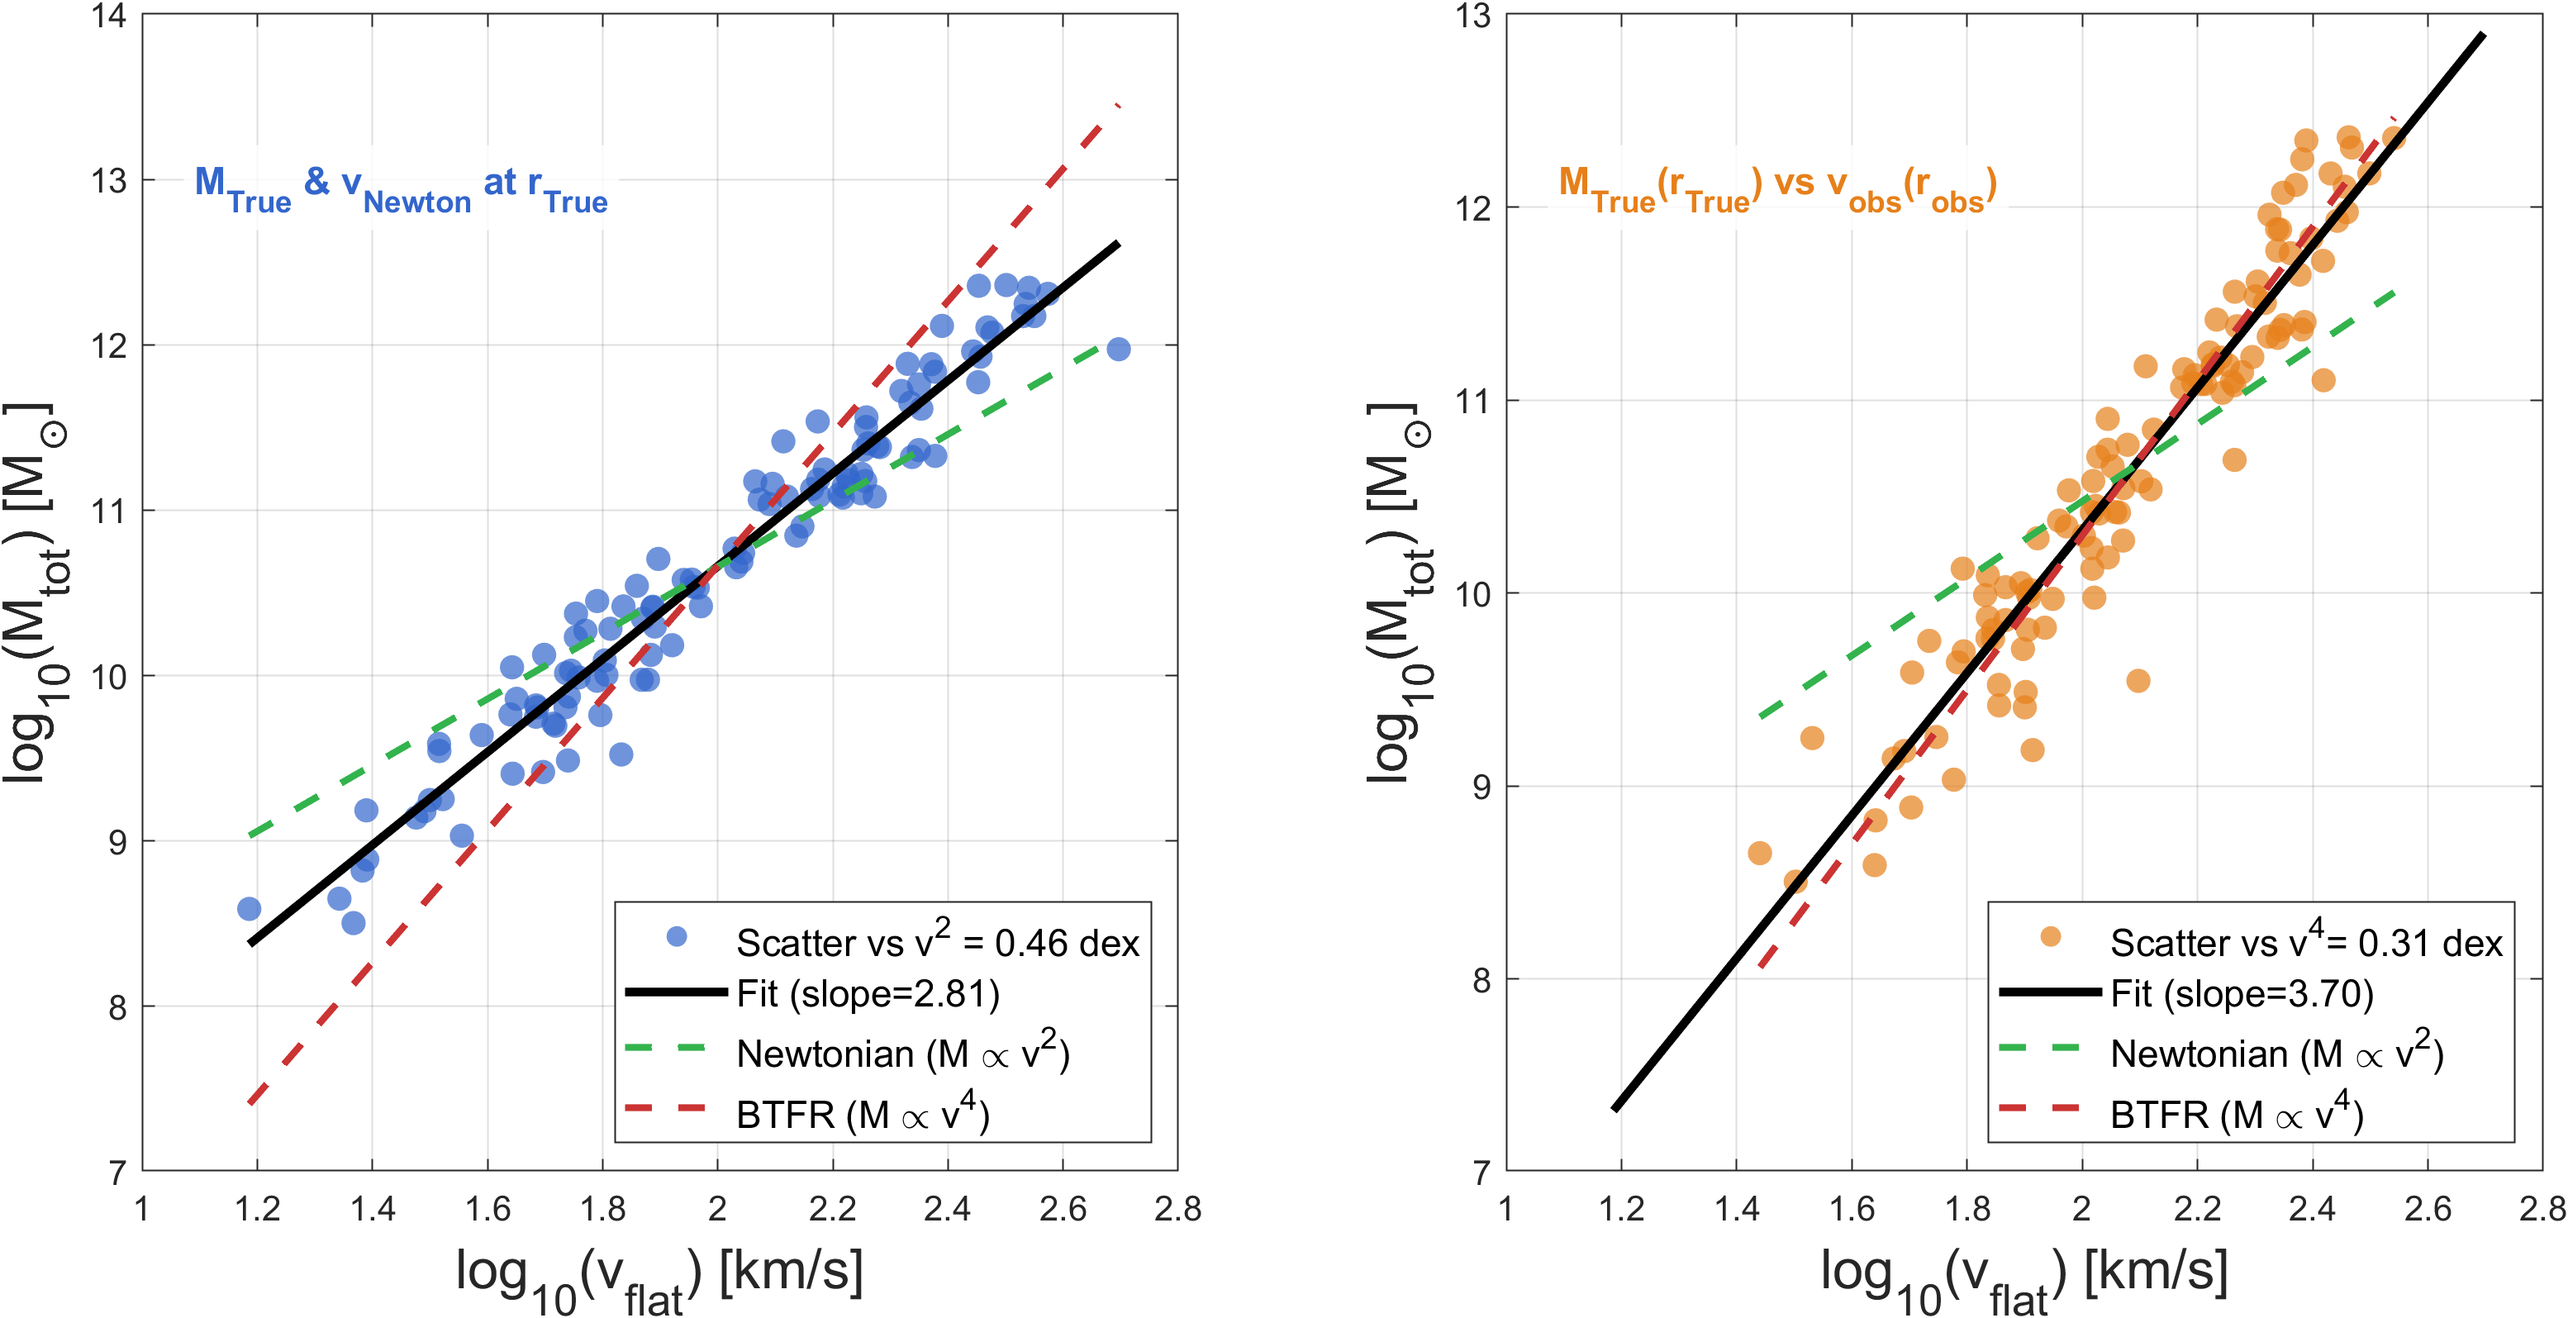
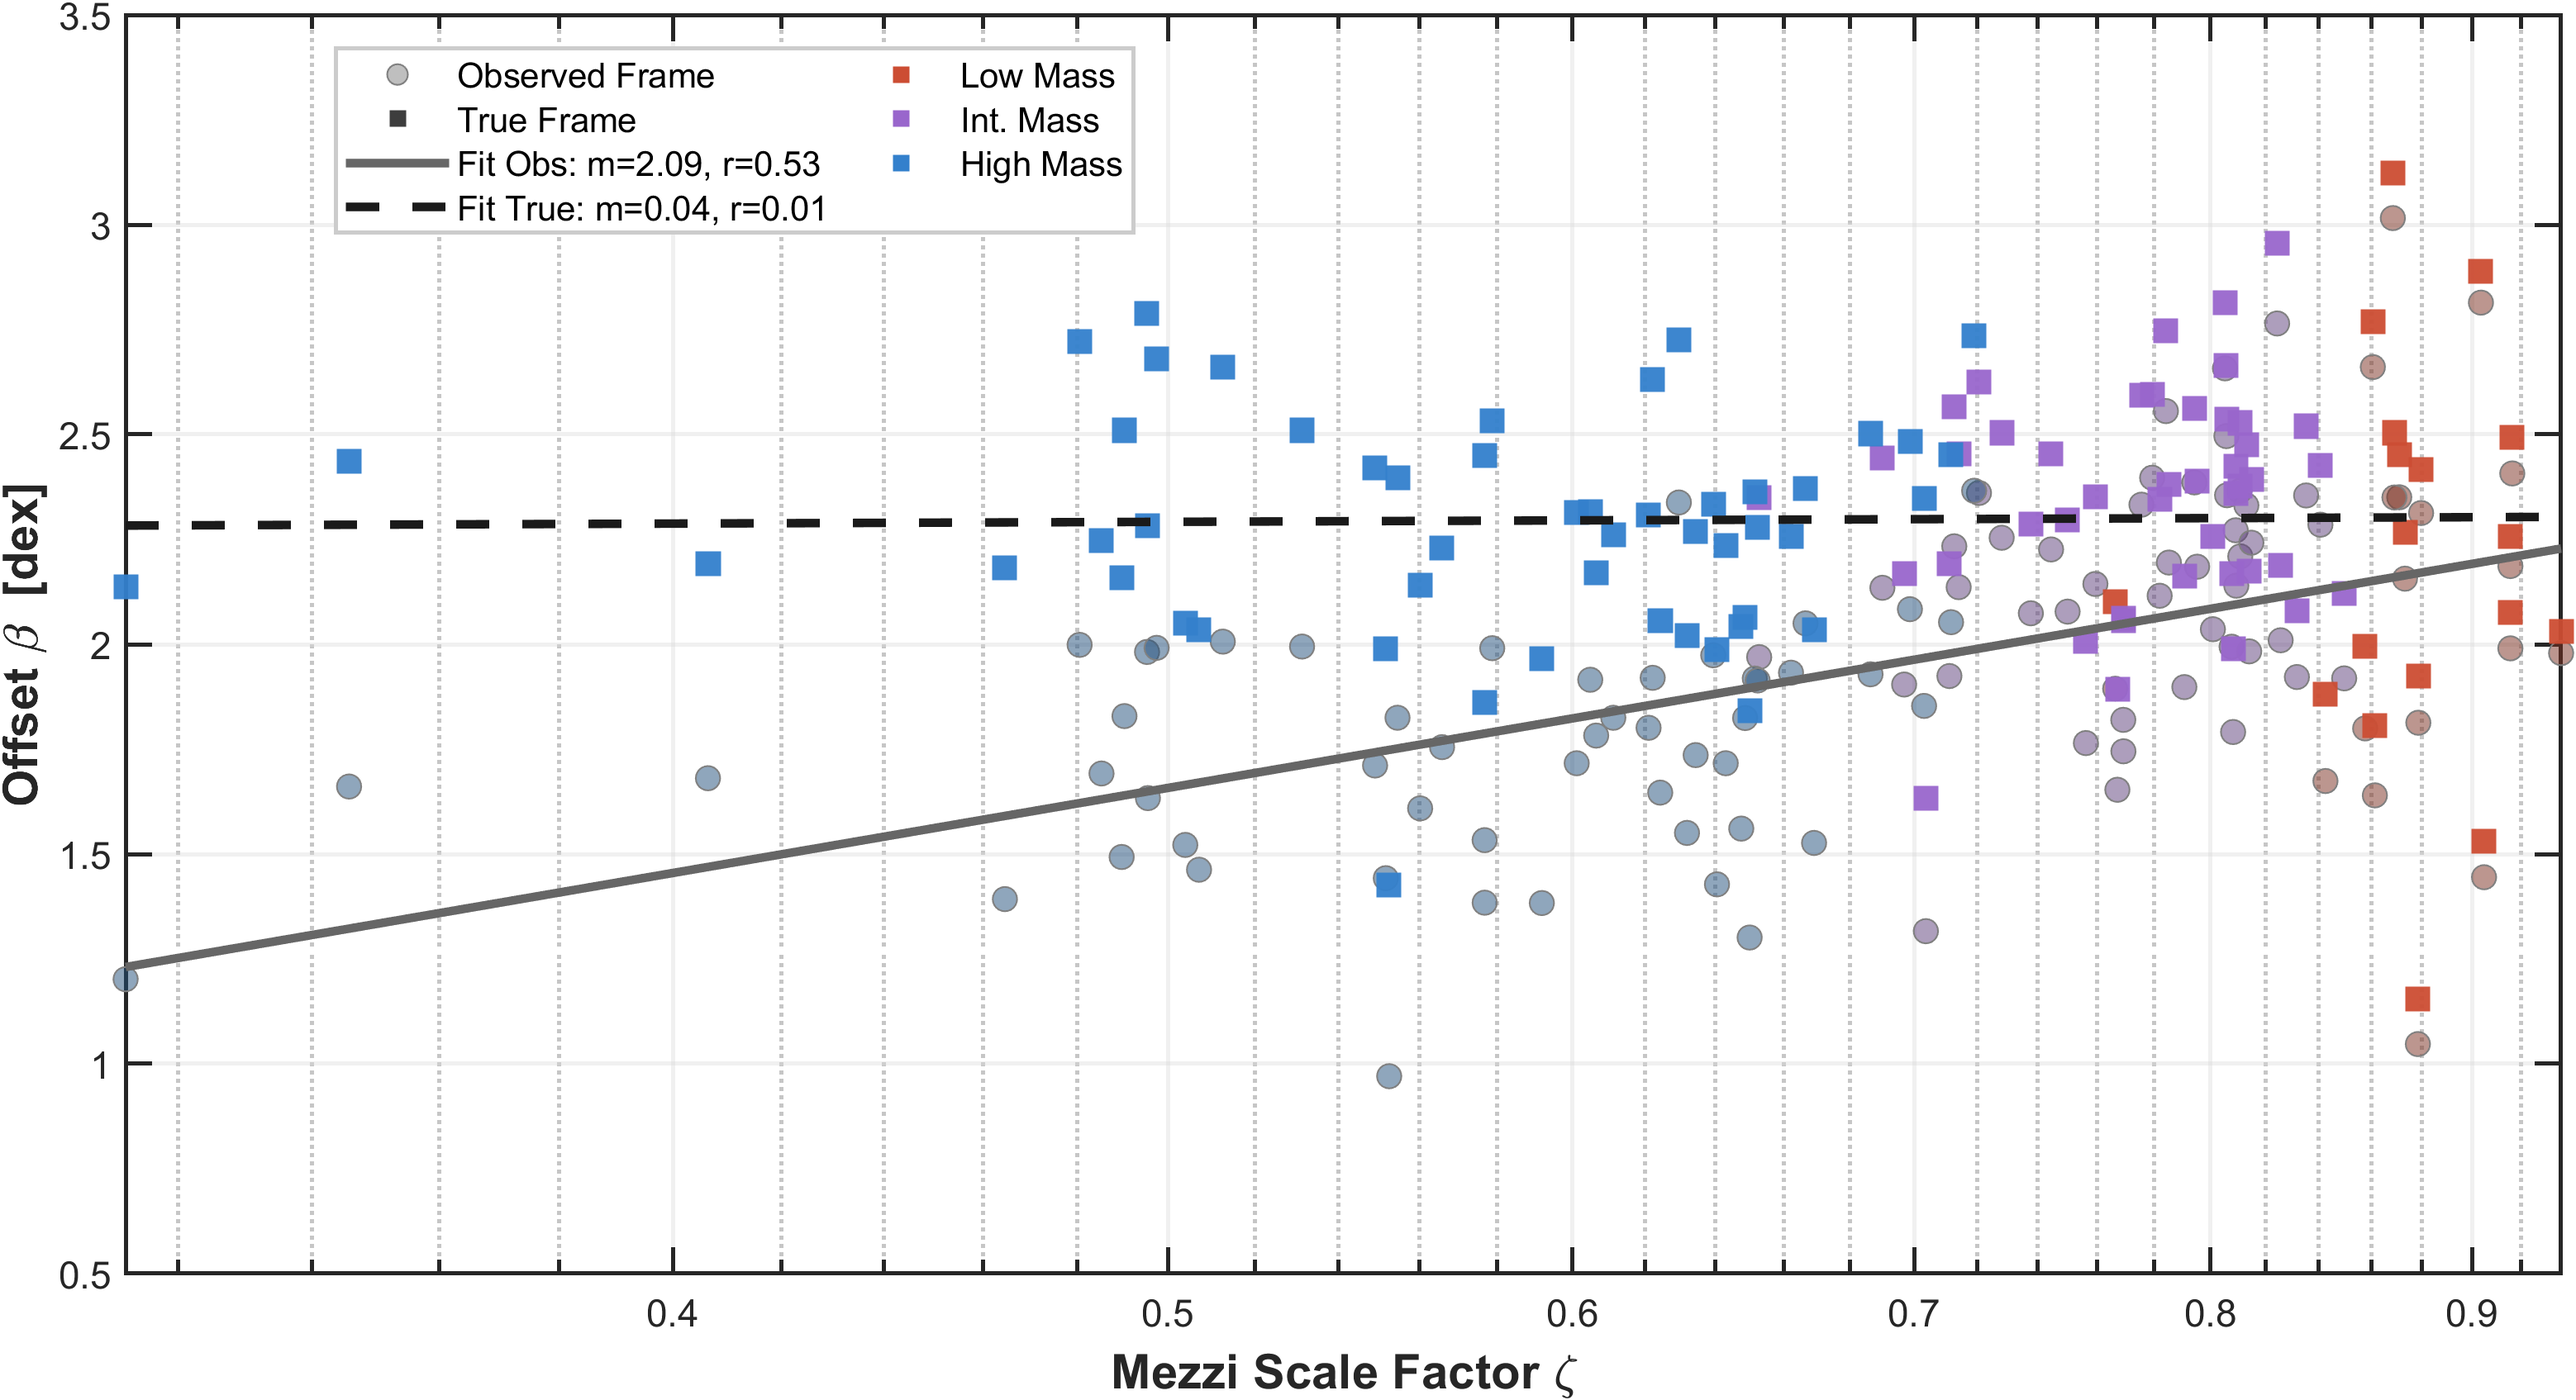
remove duplic

diff --git a/index.html b/index.html
@@ -232,9 +232,6 @@
           <div class="item">
             <img src="static/images/slide6.png" alt="Decoherence measurement results"/>
           </div>
-          <div class="item">
-            <img src="static/images/slide7.png" alt="Decoherence measurement results"/>
-          </div>
         </div>
       </div>
     </div>
